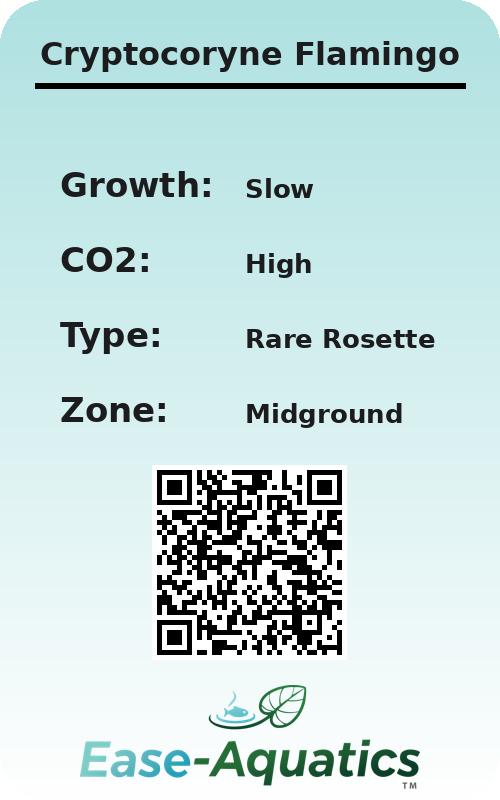
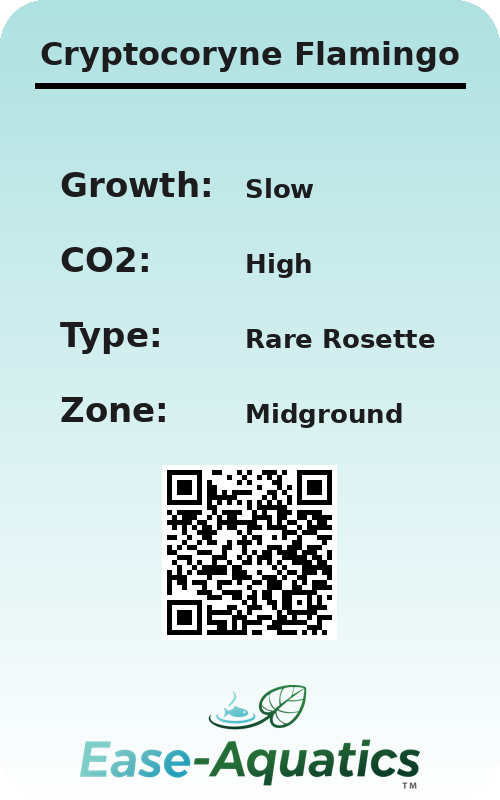
new qrs and everything works

Changed region(s): [[0.3, 0.5625, 0.72, 0.8438]]

diff --git a/qr_gen.py b/qr_gen.py
@@ -6,12 +6,10 @@ from PIL import Image, ImageDraw, ImageFont
 Image.MAX_IMAGE_PIXELS = None 
 
 # --- SETTINGS ---
-GITHUB_USERNAME = "KILLSH0T007" 
-REPO_NAME = "ease-aquatics-catalog"
-BASE_URL = f"https://{GITHUB_USERNAME}.github.io/{REPO_NAME}/dist"
+# Updated to your new custom domain
+BASE_URL = "https://www.ease-aquatics.co.za"
 LOGO_FILE = "dist/img/SimpleLogo.png" 
 LABEL_DIR = "Final_Branded_Stickers"
-
 
 # --- BRAND PALETTE ---
 GRADIENT_TOP = (175, 225, 225) 
@@ -60,12 +58,14 @@ def create_branded_sticker(plant):
     canvas = canvas.convert("RGBA")
     draw = ImageDraw.Draw(canvas)
     
-    font_path = "/usr/share/fonts/truetype/dejavu/DejaVuSans-Bold.ttf"
+    # Updated font path for Windows/WSL environment
+    font_path = "C:/Windows/Fonts/arialbd.ttf" if os.name == 'nt' else "/usr/share/fonts/truetype/dejavu/DejaVuSans-Bold.ttf"
     
     # --- DYNAMIC FONT SCALING FOR NAME ---
-    current_font_size = 52 # Starting size
+    current_font_size = 52 
     name_text = plant['name']
     
+    f_name = None
     while current_font_size > 10:
         try:
             temp_font = ImageFont.truetype(font_path, current_font_size)
@@ -75,11 +75,13 @@ def create_branded_sticker(plant):
         left, top, right, bottom = draw.textbbox((0, 0), name_text, font=temp_font)
         text_width = right - left
         
-        # If the text fits inside 440px (allowing margins), keep it
         if text_width <= 440:
             f_name = temp_font
             break
-        current_font_size -= 2 # Shrink font size by 2px each loop
+        current_font_size -= 2
+
+    # Fallback if loop fails
+    if not f_name: f_name = ImageFont.load_default()
 
     # Other fonts
     try:
@@ -88,7 +90,7 @@ def create_branded_sticker(plant):
     except:
         f_label = f_val = ImageFont.load_default()
 
-    # 1. Plant Name (Now fits regardless of length!)
+    # 1. Plant Name
     draw.text((250, 65), name_text, fill=TEXT_DARK, font=f_name, anchor="ms")
     draw.line([(35, 85), (465, 85)], fill="black", width=6)
 
@@ -107,7 +109,8 @@ def create_branded_sticker(plant):
         draw.text((60, curr_y), label, fill=TEXT_DARK, font=f_label)
         draw.text((245, curr_y + 8), val, fill=TEXT_DARK, font=f_val)
 
-    # 3. QR Code
+    # 3. QR Code - Updated to point to the new domain
+    # Change '.html' to match your catalog structure (e.g., catalog/monte-carlo.html)
     qr_url = f"{BASE_URL}/{plant['id']}.html"
     qr = qrcode.QRCode(box_size=5, border=1) 
     qr.add_data(qr_url)
@@ -131,7 +134,7 @@ def create_branded_sticker(plant):
 
 def main():
     if not os.path.exists(LABEL_DIR): os.makedirs(LABEL_DIR)
-    print(f"🚀 Generating High-Impact Branded Stickers with Auto-Scaling...")
+    print(f"🚀 Generating Stickers for: {BASE_URL}")
     for plant in plant_data:
         create_branded_sticker(plant)
         print(f"✅ Created: {plant['name']}")
